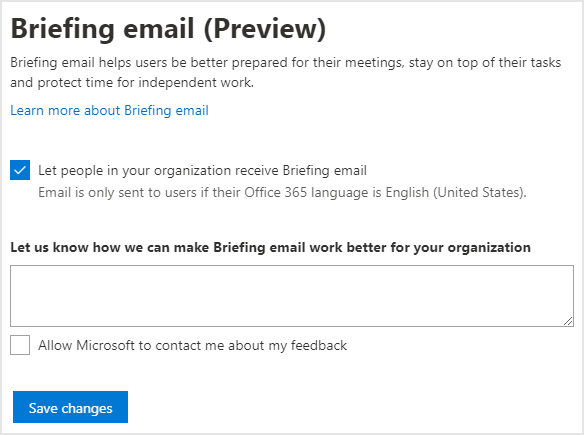
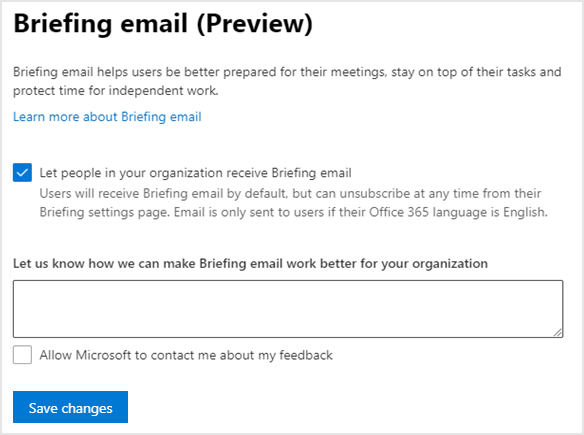
new Briefing admin steps
per Mathew

Changed region(s): [[0.0, 0.5379, 0.9863, 0.8368], [0.0, 0.0299, 0.9863, 0.2989], [0.0, 0.3586, 0.9247, 0.508]]

diff --git a/Briefing/be-admin.md b/Briefing/be-admin.md
@@ -27,44 +27,7 @@ Confirm the following before configuring access:
 * **Understand data privacy** - See the [Privacy guide](be-privacy.md) to understand how privacy is built into Briefing emails and to learn what you can configure to address your organization's specific privacy requirements.
 * **Install the required module** - [Install the Exchange Online PowerShell V2 module](https://docs.microsoft.com/powershell/exchange/exchange-online/exchange-online-powershell-v2/exchange-online-powershell-v2#install-and-maintain-the-exchange-online-powershell-v2-module)
 
-<!--### To configure access at the tenant level
-
-As the admin, use the following steps to change the setting for Briefing email at the tenant level. This setting is enabled by default, so that all users who have an Exchange Online license and their Office language is English (US) will receive the Briefing email.
-
-Users can unsubscribe individually from within any Briefing email they receive. However, if you disable this feature at the tenant level, no users in your organization will receive the Briefing email and individual users cannot override this tenant-level setting.  
-
-1. Sign in to the [Microsoft 365 admin center](https://admin.microsoft.com/Adminportal).
-2. Make sure you're using the new admin center. To do this, if the switch in the upper right of the page reads **Try the new admin center**, select it so that it reads **The new admin center**:
-
-    ![New admin center](./images/the-new-admin-center.png)
-
-3. In the left pane, expand **Settings**, and then select **Services**.
-4. Under **Services**, select **Briefing email (Preview)**.
-5. Select or deselect the checkbox next to **Let people in your organization receive the Briefing email**, and then select **Save changes**. If you deselect the checkbox, all users in your organization will not receive the Briefing email and individual users cannot override this setting.
-
-   ![Briefing email access](./images/be-admin.png)
-
-As the admin, you can set the Briefing email up at the [tenant level](#tenant-level-configuration) or the [user level](#user-level-configuration).
-
-## Tenant-level configuration
-
-You can enable or disable the Briefing email for all users in your organization at the tenant level. Use the following Exchange Online PowerShell cmdlets to set the tenant default:
-
-  ```powershell
-  Set-OrganizationIntelligenceConfig [-BriefingEmailDefault [<"Opt-in" | "Opt-out">]
-  ```
-
-   * If you set **BriefingEmailDefault** parameter to **Opt-out**, the Briefing email will be Off by default for your organization. Users can then opt-in at [cortana.office.com](https://cortana.office.com).
-   * If you set **BriefingEmailDefault** parameter to **Opt-in**, the Briefing email will be On by default for your organization. Users can then opt-out at [cortana.office.com](https://cortana.office.com). If no action is taken, this setting applies by default.
-
-To get the current state of the Briefing email setting, use:
-
-```powershell
-Get-OrganizationIntelligenceConfig
-```
-
 ## User-level configuration
--->
 
 > [!Note]
 > Users can choose to opt out or back in at any time at [cortana.office.com](https://cortana.office.com).
@@ -126,6 +89,44 @@ You can also enable or disable Briefing email for multiple users with a PowerShe
    ```
 
 3. Run the resulting commands at the Exchange Online PowerShell V2 module command prompt.
+
+## Tenant-level configuration
+
+As the admin, use the following steps to change the setting for Briefing email at the tenant level. This setting is enabled by default, so that all users who have an Exchange Online license and their Office language is English (US) will receive the Briefing email.
+
+Users can unsubscribe individually from within any Briefing email they receive. However, if you disable this feature at the tenant level, no users in your organization will receive the Briefing email and individual users cannot override this tenant-level setting.  
+
+### To configure access in the admin center
+
+1. Sign in to the [Microsoft 365 admin center](https://admin.microsoft.com/Adminportal).
+2. Make sure you're using the new admin center. To do this, if the switch in the upper right of the page reads **Try the new admin center**, select it so that it reads **The new admin center**:
+
+    ![New admin center](./images/the-new-admin-center.png)
+
+3. In the left pane, expand **Settings**, and then select **Services**.
+4. Under **Services**, select **Briefing email (Preview)**.
+5. Select or deselect the checkbox next to **Let people in your organization receive the Briefing email**, and then select **Save changes**. If you deselect the checkbox, all users in your organization will not receive the Briefing email and individual users cannot override this setting.
+
+   ![Briefing email access](./images/be-admin.png)
+
+As the admin, you can set the Briefing email up at the [tenant level](#tenant-level-configuration) or the [user level](#user-level-configuration).
+
+### To configure access in PowerShell
+
+You can enable or disable the Briefing email for all users in your organization at the tenant level. Use the following Exchange Online PowerShell cmdlets to set the tenant default:
+
+  ```powershell
+  Set-OrganizationIntelligenceConfig [-BriefingEmailDefault [<"Opt-in" | "Opt-out">]
+  ```
+
+   * If you set **BriefingEmailDefault** parameter to **Opt-out**, the Briefing email will be Off by default for your organization. Users can then opt-in at [cortana.office.com](https://cortana.office.com).
+   * If you set **BriefingEmailDefault** parameter to **Opt-in**, the Briefing email will be On by default for your organization. Users can then opt-out at [cortana.office.com](https://cortana.office.com). If no action is taken, this setting applies by default.
+
+To get the current state of the Briefing email setting, use:
+
+```powershell
+Get-OrganizationIntelligenceConfig
+```
 
 ## Related topics
 
